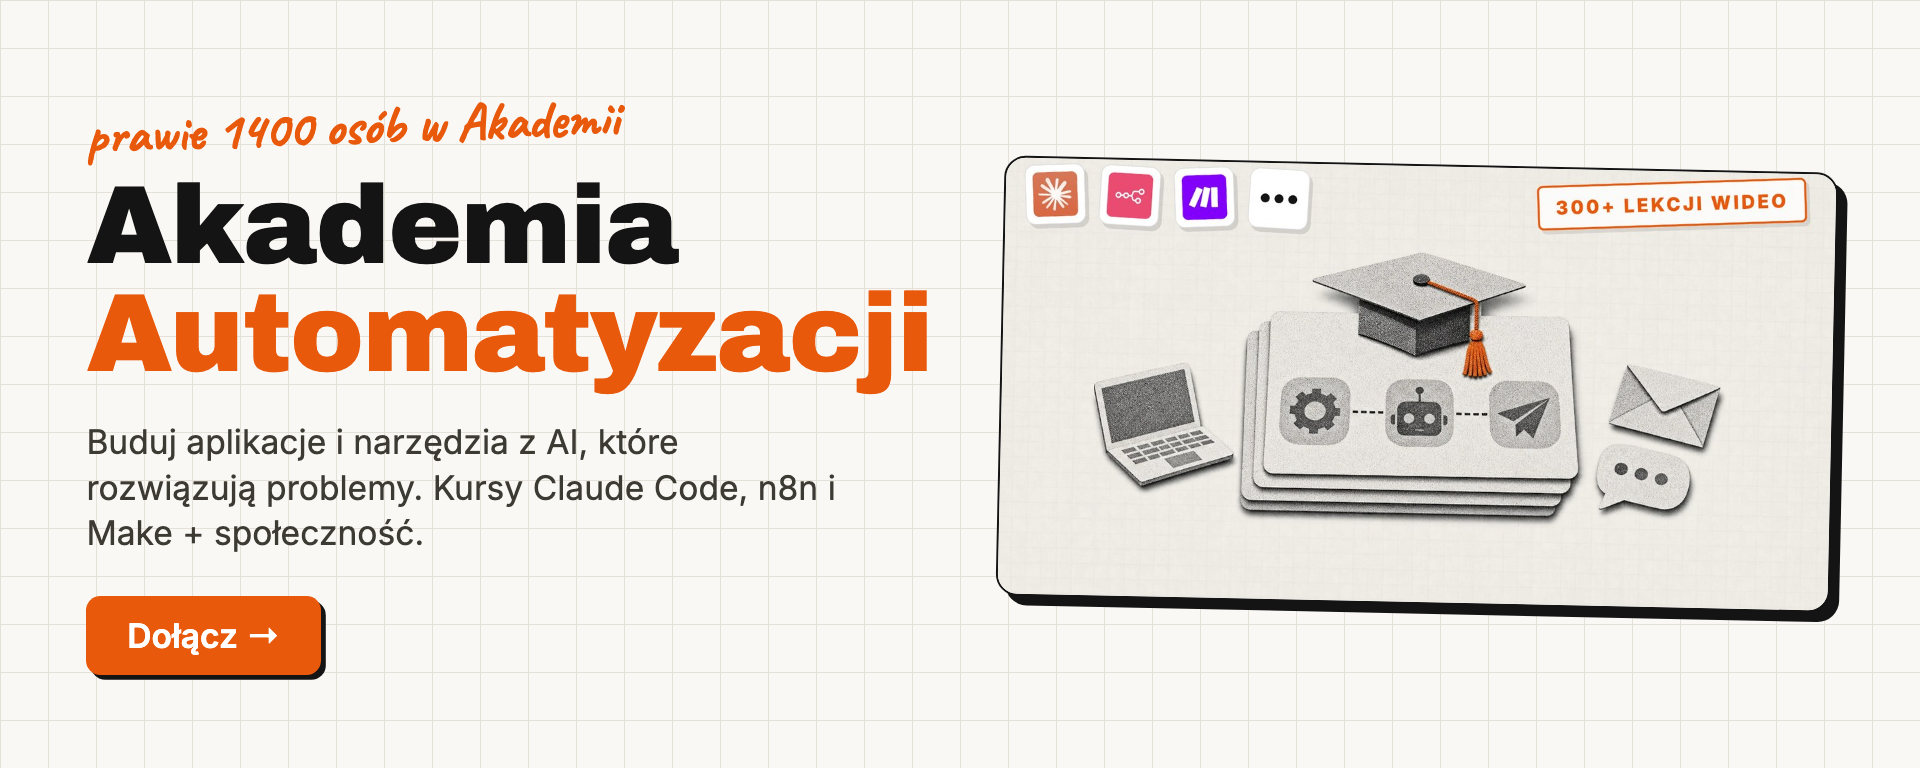
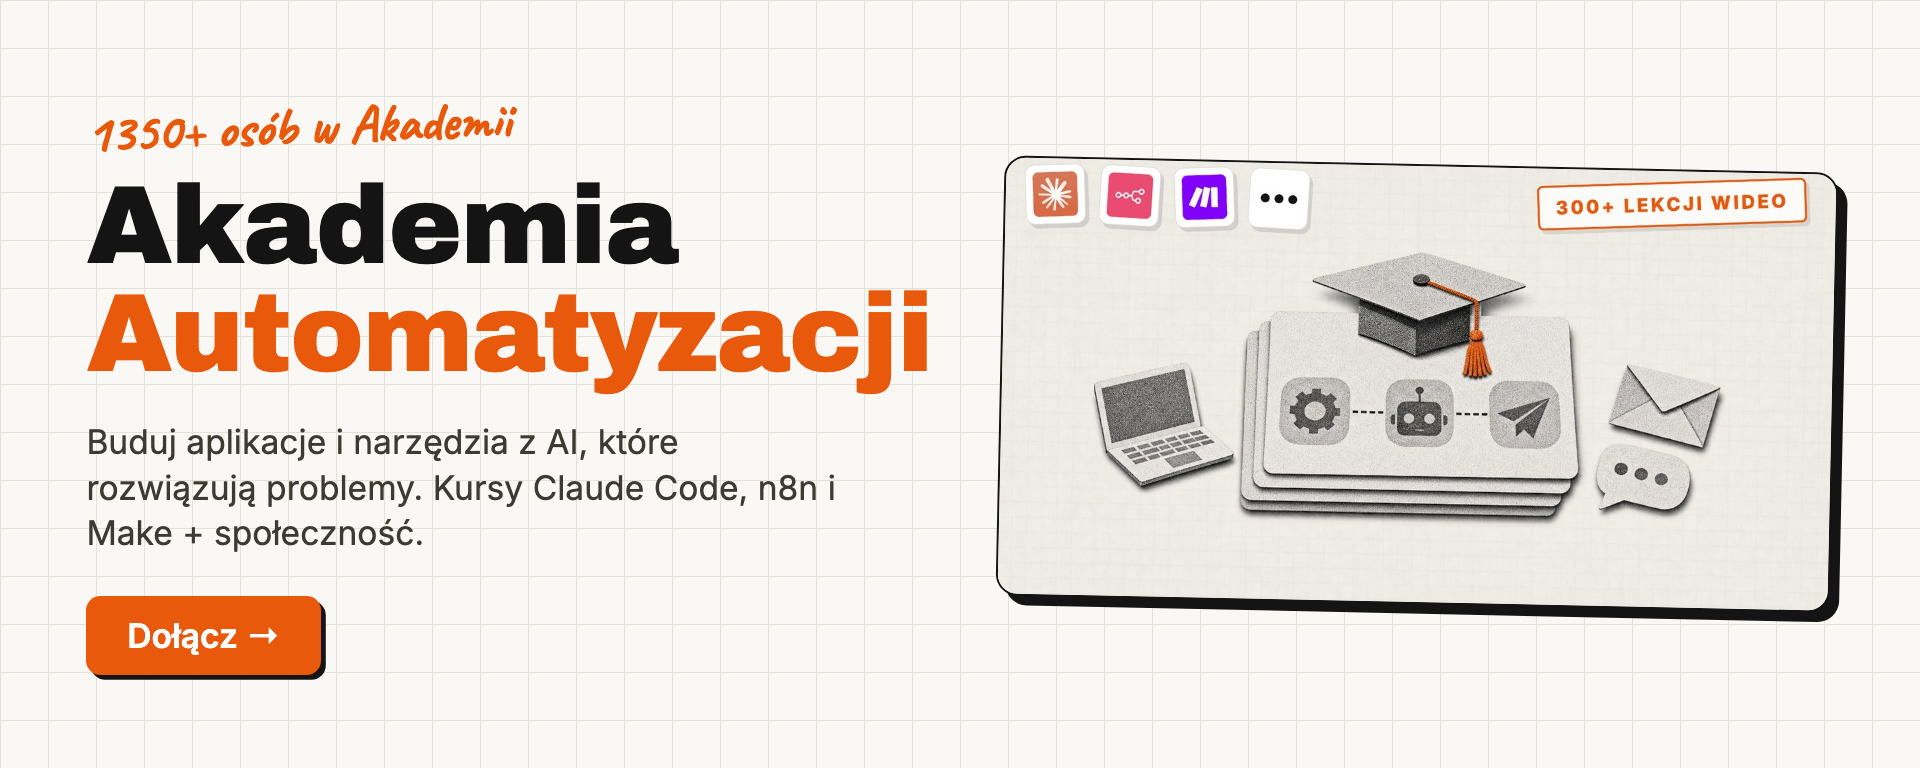
docs(readme): liczba osób 1350+ jak na stronie Akademii (baner i README)
Claude-Session: https://claude.ai/code/session_017KQozH1KoForJwhPcHQP7j

Changed region(s): [[0.0312, 0.125, 0.3438, 0.2188]]

diff --git a/README.md b/README.md
@@ -1,6 +1,6 @@
 [![Akademia Automatyzacji](assets/baner-akademia-automatyzacji.png)](https://akademiaautomatyzacji.com)
 
-> **[Dołącz do Akademii Automatyzacji →](https://akademiaautomatyzacji.com)** - prawie 1400 osób
+> **[Dołącz do Akademii Automatyzacji →](https://akademiaautomatyzacji.com)** - 1350+ osób
 > uczy się u nas automatyzacji i AI na prawdziwych wdrożeniach, nie na teorii.
 
 # Claude Code Starter
